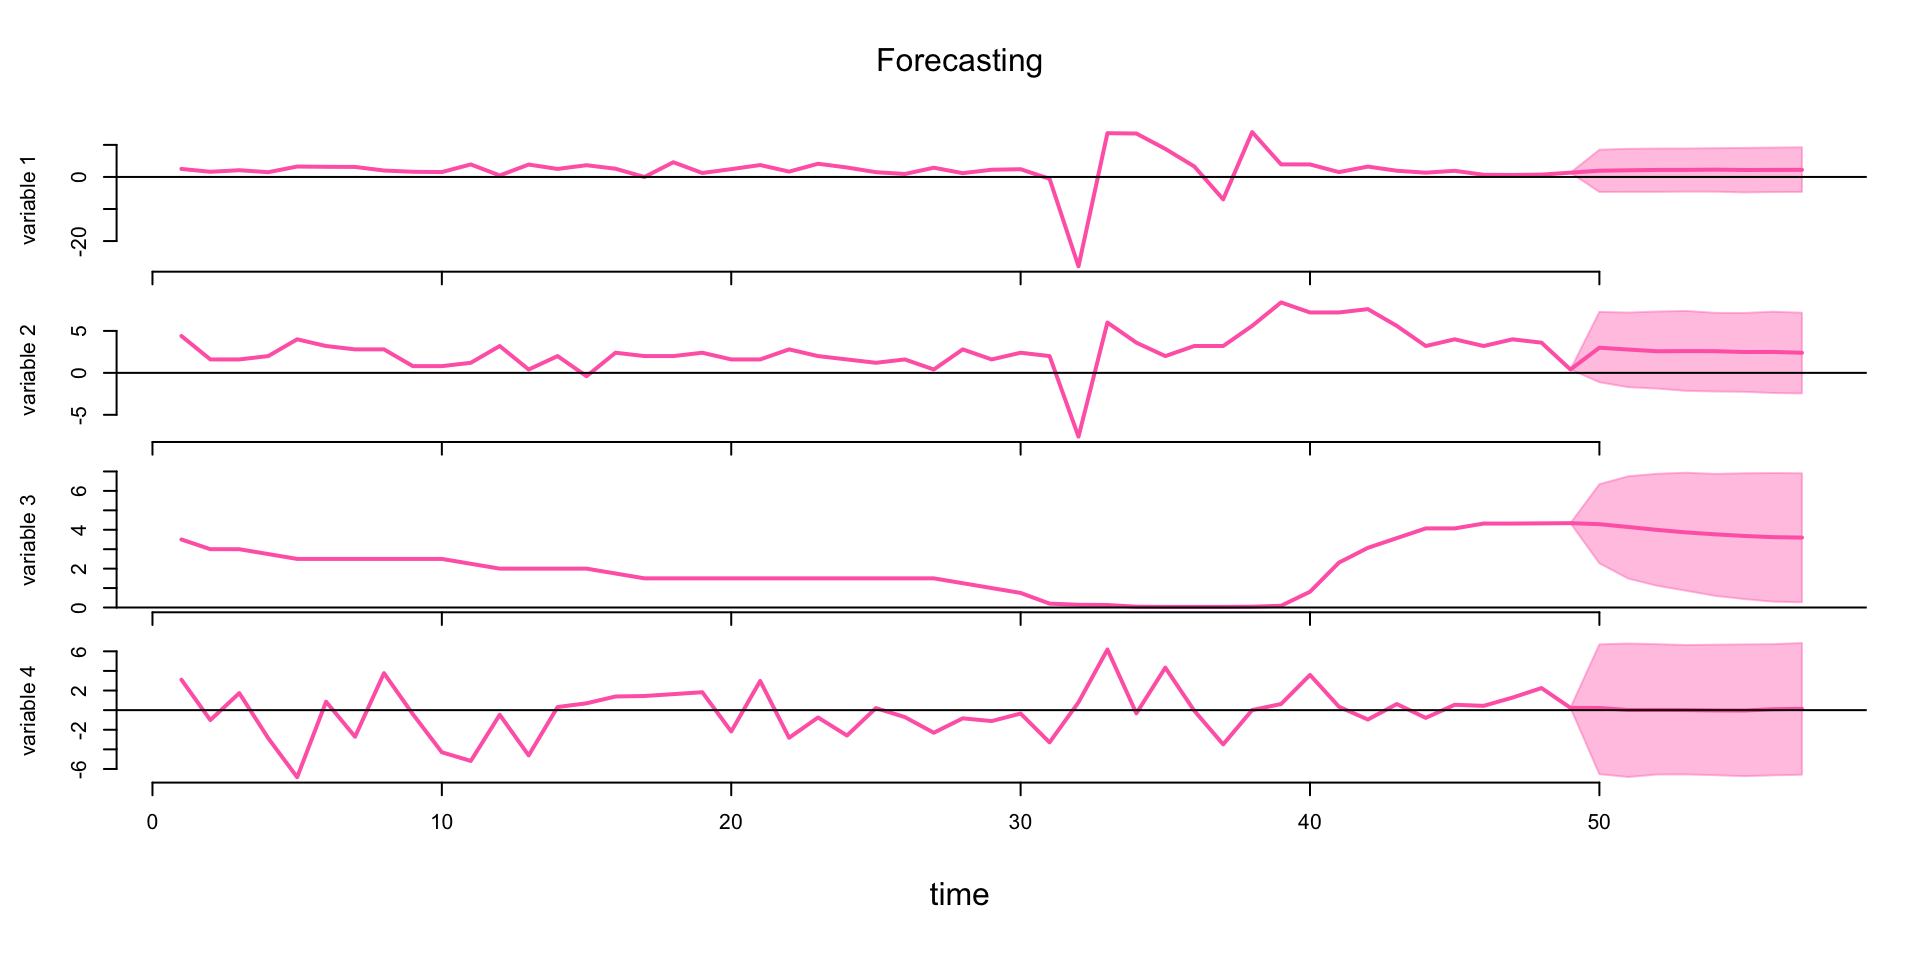
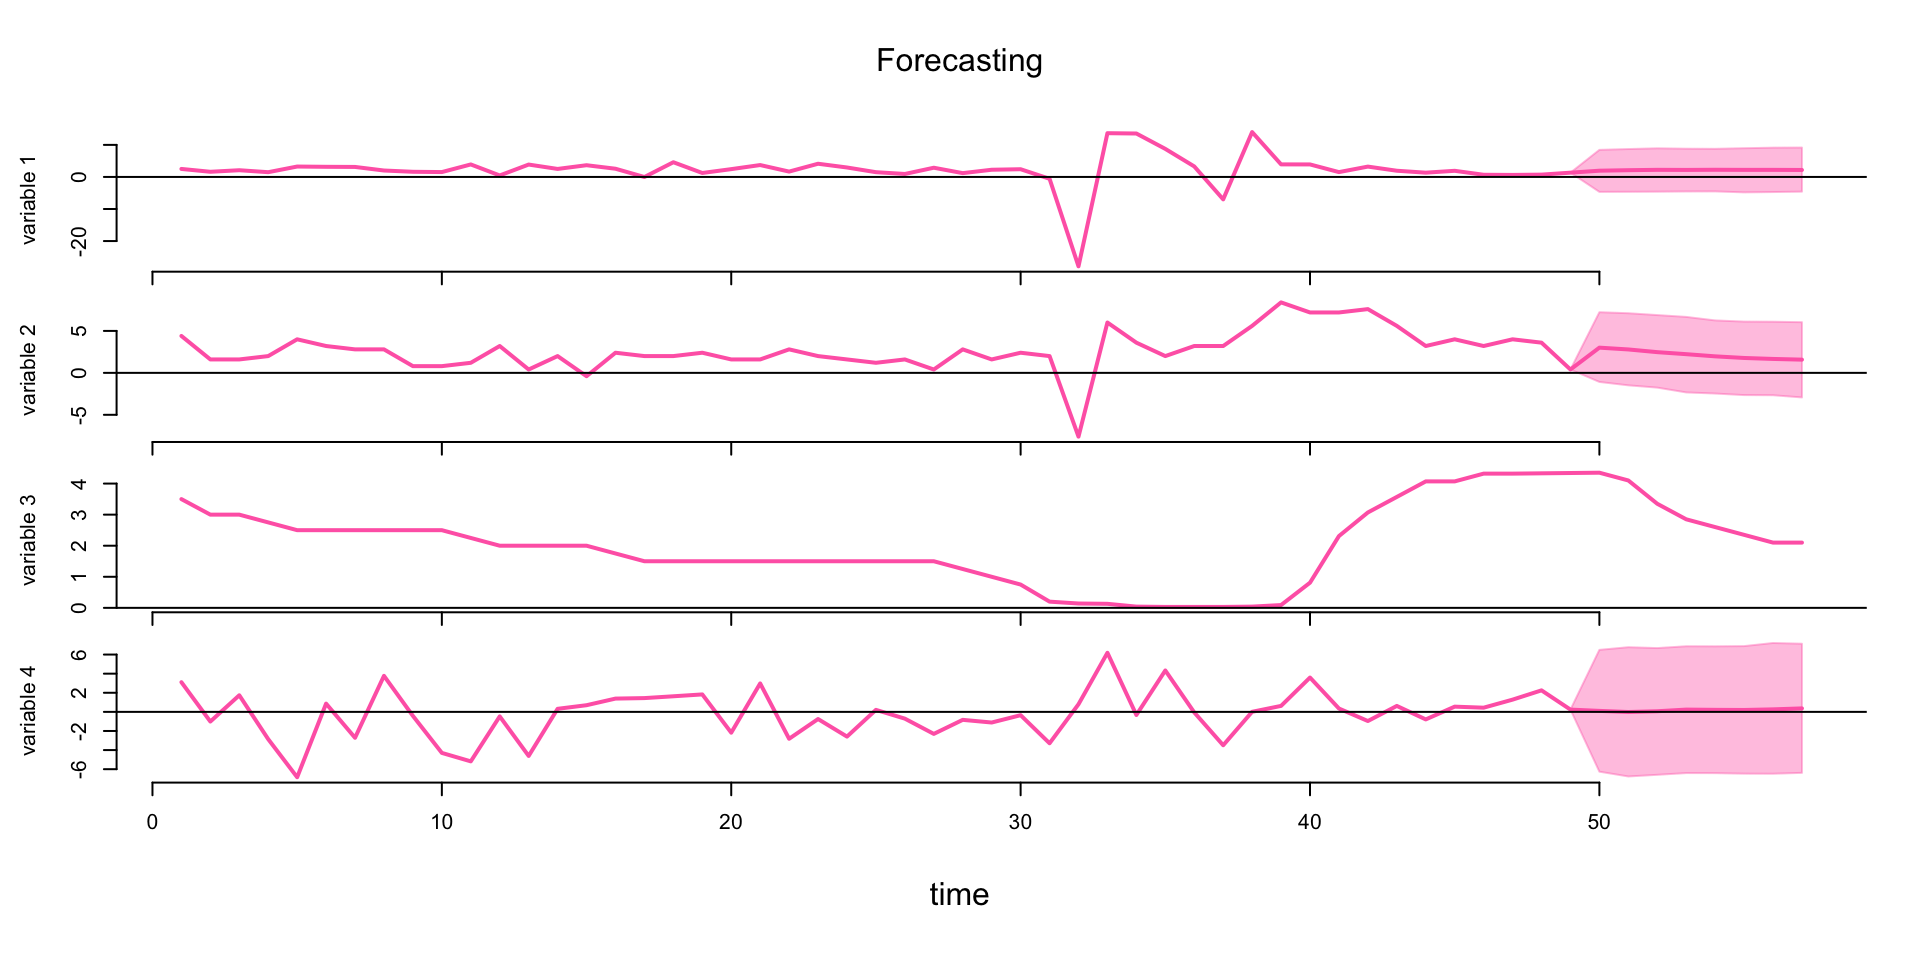
v5

diff --git a/index-speaker.html b/index-speaker.html
@@ -1178,12 +1178,13 @@ bsvars: Bayesian Structural Vector Autoregressions|
 <div class="footer">
 <p><a href="https://bsvars.org">bsvars.org</a></p>
 </div>
-<div class="cell" data-hash="index_cache/revealjs/unnamed-chunk-22_cc08a2c17ad99b0105d37103cd28f633">
-<div class="sourceCode cell-code" id="cb23"><pre class="sourceCode numberSource r number-lines code-with-copy"><code class="sourceCode r"><span id="cb23-1"><a href="#cb23-1"></a><span class="co"># daj tu ścieżkę cr</span></span>
-<span id="cb23-2"><a href="#cb23-2"></a></span>
-<span id="cb23-3"><a href="#cb23-3"></a>post <span class="sc">|&gt;</span> </span>
-<span id="cb23-4"><a href="#cb23-4"></a>  <span class="fu">forecast</span>(<span class="at">horizon =</span> <span class="dv">8</span>) <span class="sc">|&gt;</span> </span>
-<span id="cb23-5"><a href="#cb23-5"></a>  <span class="fu">plot</span>(<span class="at">data_in_plot =</span> <span class="fl">0.3</span>)</span></code><button title="Copy to Clipboard" class="code-copy-button"><i class="bi"></i></button></pre></div>
+<div class="cell" data-hash="index_cache/revealjs/unnamed-chunk-22_afd749ba226084ce988f37721c300ba7">
+<div class="sourceCode cell-code" id="cb23"><pre class="sourceCode numberSource r number-lines code-with-copy"><code class="sourceCode r"><span id="cb23-1"><a href="#cb23-1"></a>cond_fore <span class="ot">=</span> <span class="fu">matrix</span>(<span class="cn">NA</span>, <span class="dv">8</span>,<span class="dv">4</span>)</span>
+<span id="cb23-2"><a href="#cb23-2"></a>cond_fore[,<span class="dv">3</span>] <span class="ot">=</span> <span class="fu">c</span>(<span class="fl">4.35</span>,<span class="fl">4.10</span>,<span class="fl">3.35</span>,<span class="fl">2.85</span>,<span class="fl">2.60</span>,<span class="fl">2.35</span>,<span class="fl">2.10</span>,<span class="fl">2.10</span>)</span>
+<span id="cb23-3"><a href="#cb23-3"></a></span>
+<span id="cb23-4"><a href="#cb23-4"></a>post <span class="sc">|&gt;</span> </span>
+<span id="cb23-5"><a href="#cb23-5"></a>  <span class="fu">forecast</span>(<span class="at">horizon =</span> <span class="dv">8</span>, <span class="at">conditional_forecast =</span> cond_fore) <span class="sc">|&gt;</span> </span>
+<span id="cb23-6"><a href="#cb23-6"></a>  <span class="fu">plot</span>(<span class="at">data_in_plot =</span> <span class="fl">0.3</span>)</span></code><button title="Copy to Clipboard" class="code-copy-button"><i class="bi"></i></button></pre></div>
 
 </div>
 <img data-src="index_files/figure-revealjs/unnamed-chunk-22-1.png" width="960" class="r-stretch"></section>

diff --git a/index.html b/index.html
@@ -1178,12 +1178,13 @@ bsvars: Bayesian Structural Vector Autoregressions|
 <div class="footer">
 <p><a href="https://bsvars.org">bsvars.org</a></p>
 </div>
-<div class="cell" data-hash="index_cache/revealjs/unnamed-chunk-22_cc08a2c17ad99b0105d37103cd28f633">
-<div class="sourceCode cell-code" id="cb23"><pre class="sourceCode numberSource r number-lines code-with-copy"><code class="sourceCode r"><span id="cb23-1"><a href="#cb23-1"></a><span class="co"># daj tu ścieżkę cr</span></span>
-<span id="cb23-2"><a href="#cb23-2"></a></span>
-<span id="cb23-3"><a href="#cb23-3"></a>post <span class="sc">|&gt;</span> </span>
-<span id="cb23-4"><a href="#cb23-4"></a>  <span class="fu">forecast</span>(<span class="at">horizon =</span> <span class="dv">8</span>) <span class="sc">|&gt;</span> </span>
-<span id="cb23-5"><a href="#cb23-5"></a>  <span class="fu">plot</span>(<span class="at">data_in_plot =</span> <span class="fl">0.3</span>)</span></code><button title="Copy to Clipboard" class="code-copy-button"><i class="bi"></i></button></pre></div>
+<div class="cell" data-hash="index_cache/revealjs/unnamed-chunk-22_afd749ba226084ce988f37721c300ba7">
+<div class="sourceCode cell-code" id="cb23"><pre class="sourceCode numberSource r number-lines code-with-copy"><code class="sourceCode r"><span id="cb23-1"><a href="#cb23-1"></a>cond_fore <span class="ot">=</span> <span class="fu">matrix</span>(<span class="cn">NA</span>, <span class="dv">8</span>,<span class="dv">4</span>)</span>
+<span id="cb23-2"><a href="#cb23-2"></a>cond_fore[,<span class="dv">3</span>] <span class="ot">=</span> <span class="fu">c</span>(<span class="fl">4.35</span>,<span class="fl">4.10</span>,<span class="fl">3.35</span>,<span class="fl">2.85</span>,<span class="fl">2.60</span>,<span class="fl">2.35</span>,<span class="fl">2.10</span>,<span class="fl">2.10</span>)</span>
+<span id="cb23-3"><a href="#cb23-3"></a></span>
+<span id="cb23-4"><a href="#cb23-4"></a>post <span class="sc">|&gt;</span> </span>
+<span id="cb23-5"><a href="#cb23-5"></a>  <span class="fu">forecast</span>(<span class="at">horizon =</span> <span class="dv">8</span>, <span class="at">conditional_forecast =</span> cond_fore) <span class="sc">|&gt;</span> </span>
+<span id="cb23-6"><a href="#cb23-6"></a>  <span class="fu">plot</span>(<span class="at">data_in_plot =</span> <span class="fl">0.3</span>)</span></code><button title="Copy to Clipboard" class="code-copy-button"><i class="bi"></i></button></pre></div>
 
 </div>
 <img data-src="index_files/figure-revealjs/unnamed-chunk-22-1.png" width="960" class="r-stretch"></section>
